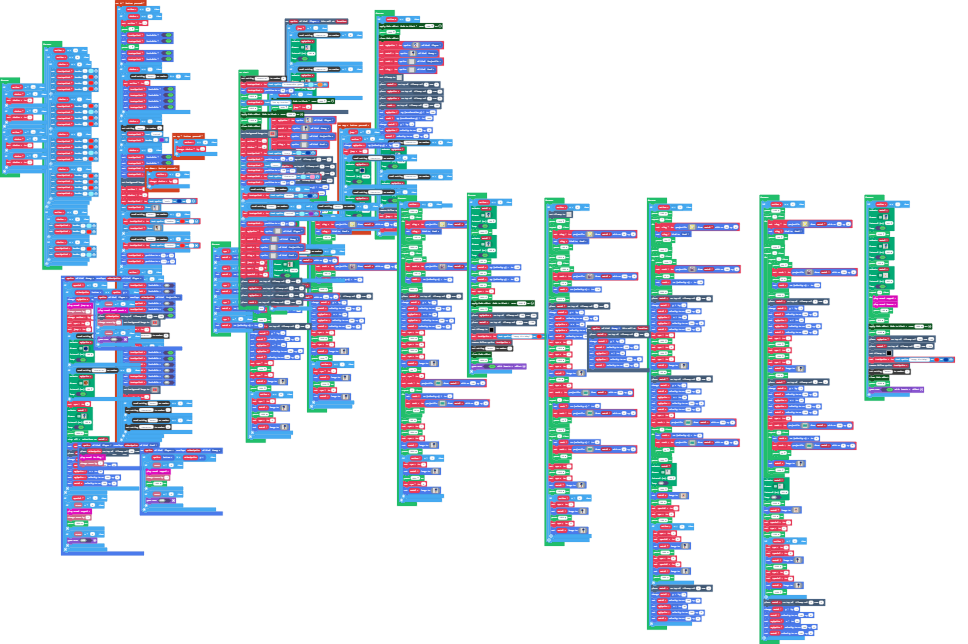
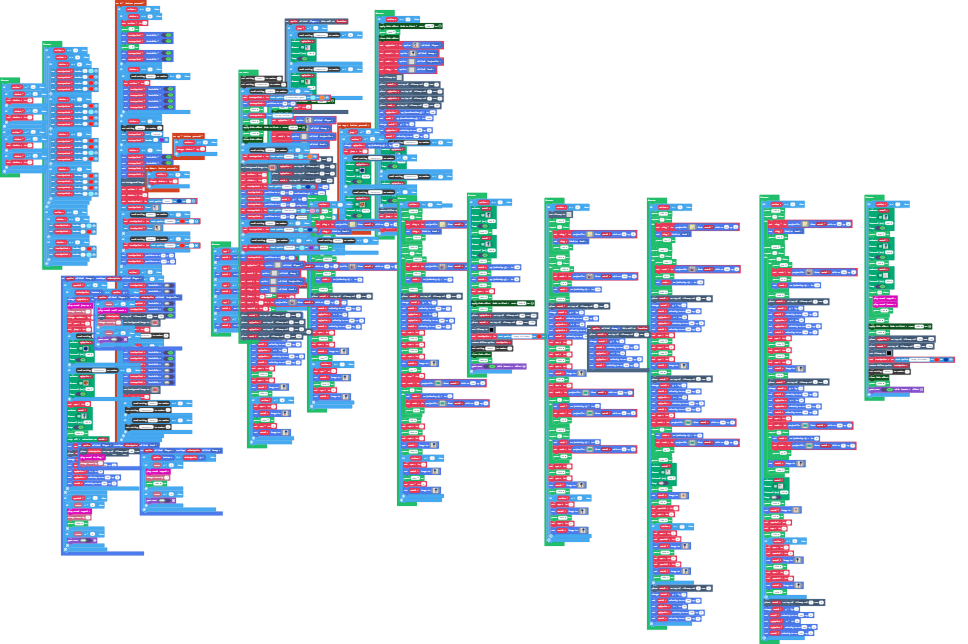
Update main.blocks, main.ts

Changed region(s): [[0.2479, 0.1242, 0.4029, 0.7143]]

diff --git a/main.ts b/main.ts
@@ -1088,15 +1088,21 @@ let textSprite2: TextSprite = null
 let choice = 0
 let action = 0
 let textsprite4: TextSprite = null
+blockSettings.writeNumber("start", 1)
 blockSettings.writeNumber("character", 0)
-textsprite4 = textsprite.create("A Ganecoder game", 4, 9)
-textsprite4.setPosition(80, 60)
-pause(5000)
-textsprite4.setText("For my brother")
-pause(5000)
-color.FadeToBlack.startScreenEffect(1000)
-pause(1500)
-color.clearFadeEffect()
+if (blockSettings.readNumber("start") != 1) {
+    textsprite4 = textsprite.create("A Ganecoder game", 4, 9)
+    textsprite4.setPosition(80, 60)
+    pause(5000)
+    textsprite4.setText("For my brother")
+    pause(5000)
+    color.FadeToBlack.startScreenEffect(1000)
+    pause(1500)
+    color.clearFadeEffect()
+}
+if (blockSettings.readNumber("start") == 1) {
+    textsprite4 = textsprite.create("reset", 4, 9)
+}
 scene.setBackgroundImage(img`
     2222222222222222222222222222222222222222222222222222222222222222222222222222222222222222222222222222222222222222222222222222222222222222222222222222222222222222
     2222222222222222222222222222222222222222222222222222222222222222222222222222222222222222222222222222222222222222222222222222222222222222222222222222222222222222
